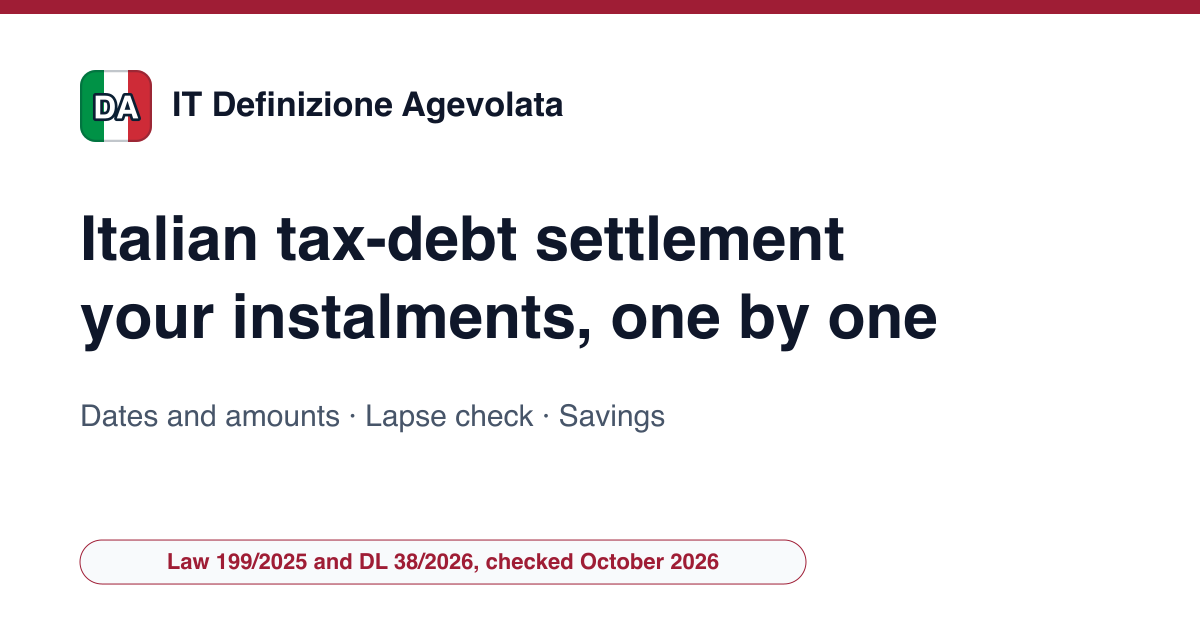
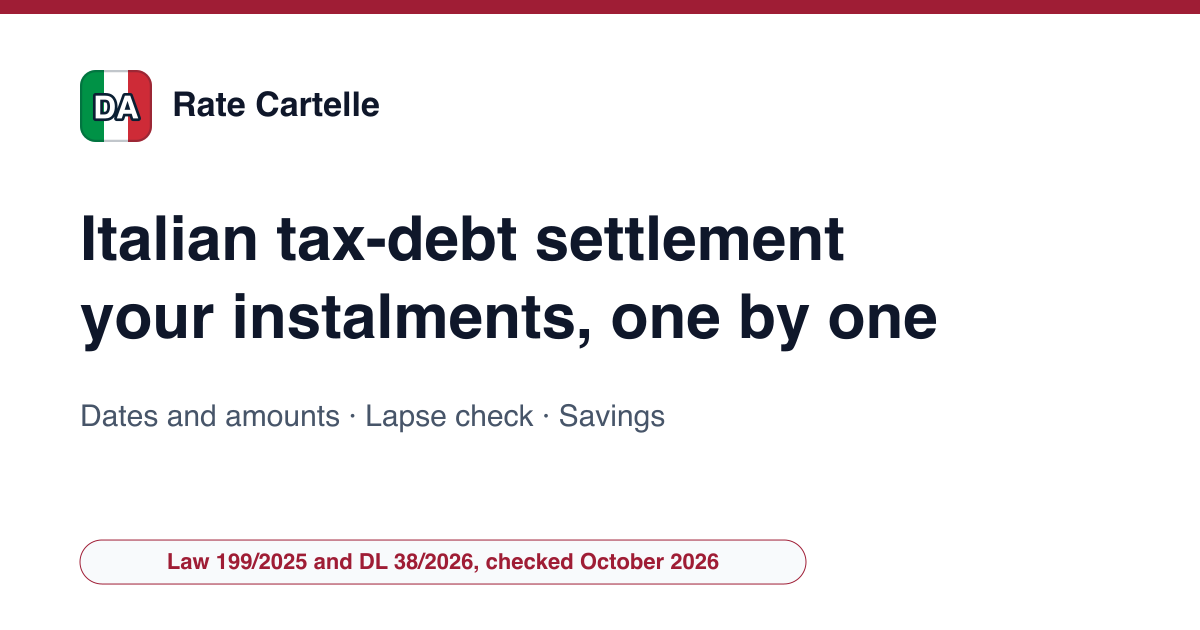
Renommage sur le domaine ratecartelle.it

Changed region(s): [[0.1542, 0.1206, 0.4933, 0.2111]]

diff --git a/src/data/site-config.ts b/src/data/site-config.ts
@@ -1,8 +1,8 @@
 /** Configuration centrale du site (générée par new-site.py). */
-export const SITE_URL = "https://it-definizione-agevolata.example";
-export const SITE_NAMES: Record<string, string> = {"it": "IT Definizione Agevolata", "en": "IT Definizione Agevolata"};
+export const SITE_URL = "https://ratecartelle.it";
+export const SITE_NAMES: Record<string, string> = {"it": "Rate Cartelle", "en": "Rate Cartelle"};
 // Partie du nom affichée en couleur dans l'en-tête (RECETTE §10.3), « » pour aucune.
-export const BRAND_ACCENT = "Agevolata";
+export const BRAND_ACCENT = "Cartelle";
 export const LANG_TAGS: Record<string, string> = {"it": "it-IT", "en": "en-IT"};
 export const OG_LOCALES: Record<string, string> = {"it": "it_IT", "en": "en_GB"};
 export const LOCALE_TAG = 'it-IT';
@@ -20,7 +20,7 @@ export const AUTHOR_DESC: Record<string, string> = {"it": "Radif Partners legge 
  *  themes reellement traites par le site, pas une liste de mots-cles : un sujet
  *  declare ici sans page qui le couvre est une declaration fausse. */
 export const KNOWS_ABOUT: Record<string, string[]> = {"it": ["Rottamazione-quinquies (legge n. 199/2025, commi 82-101)", "Rottamazione-quinquies dei carichi di regioni e comuni (art. 10-quinquies DL 38/2026)", "Rottamazione-quater e riammissione (legge n. 197/2022, DL 202/2024)", "Decadenza dalla definizione agevolata", "Rateizzazione delle cartelle (art. 19 DPR 602/1973)", "Cartelle esattoriali e carichi affidati all'Agente della riscossione"], "en": ["Italy's rottamazione-quinquies tax-debt settlement", "The settlement of regional and municipal debts (Decree-Law 38/2026)", "Rottamazione-quater and its readmission", "Losing the benefit of an Italian debt settlement", "Ordinary instalment plans for Italian tax bills", "Italian tax-collection notices (cartelle)"]};
-export const CONTACT_EMAIL = "contatti@it-definizione-agevolata.example";
+export const CONTACT_EMAIL = "contatti@ratecartelle.it";
 export const THEME_COLOR = '#9F1D35';
 export const LOGO_SYMBOL = 'DA';
 export const BING_VERIFY_CODE = '';
